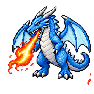
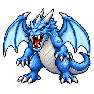
Replace dragon attack with forward open-mouth loop without fire

diff --git a/design/enemies/dragon_frost/attack/PROMPT.md b/design/enemies/dragon_frost/attack/PROMPT.md
@@ -1,5 +1,1 @@
-Built-in image_gen edit. Reference: ../move/dragon_frost_1.png. Secondary reference: user supplied open-mouth dragon image.
-
-Four-frame sustained fire breath loop. Preserve blue pixel-art dragon identity, open jaws, orange/red flame with pale yellow core pointing diagonally down-left. Frame1 medium flame; frame2 longer; frame3 alternate tongues; frame4 shorter returning to frame1. Feet anchored, minimal body movement, transparent background.
-
-Export: 94×94 PNG, numeric order 1–4. Preview: 0.14 seconds/frame, 0.56 seconds/cycle.
+Built-in image_gen edit. Reference: ../move/dragon_frost_1.png. Four-frame open-mouth loop. NO FIRE or particles. Face thrust toward viewer, neck extended, jaws open, ivory teeth visible. Frame1 medium gape, frame2 wider, frame3 maximum, frame4 return. Preserve blue pixel-art dragon, feet anchored, transparent background. Export: 94x94 PNG; 0.14s per frame.
